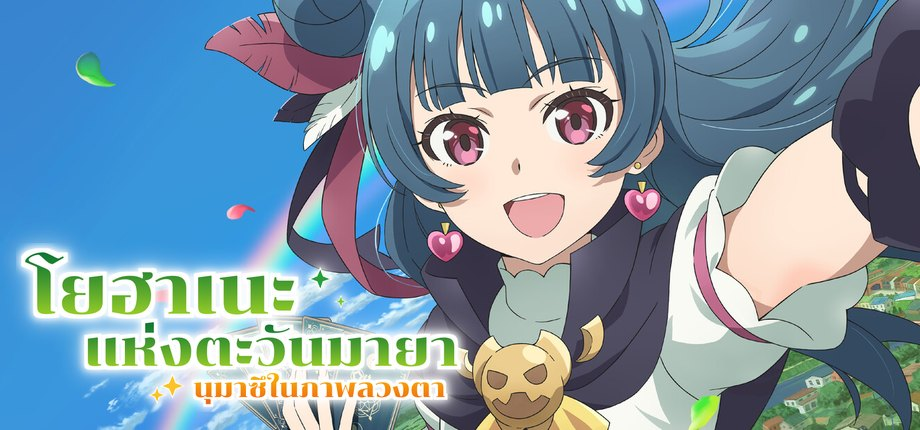
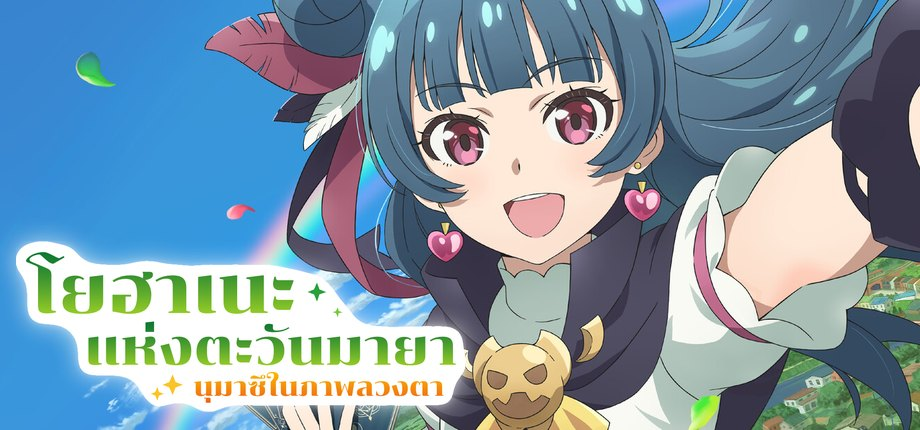
Train45 v1.0.4, Yohane v1.0.5-beta, Nijigasaki v1.0.2-beta; no status badges; 'ทดสอบกับเกมบน Steam'; internet only on first launch; new Yohane cover

Changed region(s): [[0.0, 0.5442, 0.5174, 0.9674]]

diff --git a/index.html b/index.html
@@ -26,7 +26,7 @@
 <meta property="og:image:height" content="630">
 <meta property="og:image:alt" content="TripleT Translate แปลเกมเป็นภาษาไทย">
 <meta name="twitter:card" content="summary_large_image">
-<link rel="stylesheet" href="assets/style.css?v=6dbc5da4">
+<link rel="stylesheet" href="assets/style.css?v=de7aab95">
 </head>
 <body>
 <header class="top">
@@ -77,7 +77,6 @@
             <div class="body">
               <h3>Love Live! Nijigasaki High School Idol Club<br>TOKIMEKI Roadmap to the Future</h3>
               <div class="badges">
-                <span class="badge warn">เวอร์ชันทดลอง</span>
                 <span class="badge new" data-new="nijichizu" hidden>ใหม่</span>
                 <span class="badge" data-ver="nijichizu"></span>
                 <span class="badge ai">🤖 แปลด้วย AI</span>
@@ -103,7 +102,7 @@
                 ถ้าขึ้นถามว่าจะแทนที่ไฟล์ไหม ให้กด <b>แทนที่</b></li>
               <li>เช็กให้ชัวร์: ในโฟลเดอร์เกมต้องเห็นโฟลเดอร์ <code>BepInEx</code> กับไฟล์ <code>winhttp.dll</code> อยู่ข้าง ๆ <code>nijichizu.exe</code>
                 (ถ้ามันไปอยู่ในโฟลเดอร์ย่อยอีกชั้น ให้ย้ายออกมาไว้ข้าง ๆ <code>nijichizu.exe</code>)</li>
-              <li>เข้าเกมผ่าน Steam ตามปกติ <b>ครั้งแรกจะเปิดช้าประมาณ 1–3 นาที</b> รอได้เลย ไม่ได้ค้าง (ต้องต่อเน็ตด้วย)</li>
+              <li>เข้าเกมผ่าน Steam ตามปกติ <b>ครั้งแรกจะเปิดช้าประมาณ 1–3 นาที</b> รอได้เลย ไม่ได้ค้าง (ต้องต่อเน็ตแค่ครั้งแรก ครั้งต่อไปเล่นแบบไม่มีเน็ตได้)</li>
               <li>ในเกม ไปที่การตั้งค่า แล้วตั้งภาษาเป็น <b>English</b> ข้อความและเมนูจะกลายเป็นภาษาไทย 🎉</li>
             </ol>
             <p class="note uninstall">อยากเอาม็อดออก: ดับเบิลคลิกไฟล์ <code>NijichizuThai_uninstall.bat</code> ในโฟลเดอร์เกม</p>
@@ -113,13 +112,12 @@
         <article class="mod" id="yohanuma">
           <div class="top">
             <div class="side">
-              <div class="shot"><img src="assets/cover-yohanuma.jpg?v=2020bb5c" alt="ภาพปกเกม Yohane the Parhelion - NUMAZU in the MIRAGE -" width="460" height="215" loading="lazy"></div>
+              <div class="shot"><img src="assets/cover-yohanuma.jpg?v=831d6980" alt="ภาพปกเกม Yohane the Parhelion - NUMAZU in the MIRAGE -" width="460" height="215" loading="lazy"></div>
               <a class="store" data-store="yohanuma" href="#" target="_blank" rel="noopener">🎮 ดูเกมนี้บน Steam ↗</a>
             </div>
             <div class="body">
               <h3>Yohane the Parhelion<br>- NUMAZU in the MIRAGE -</h3>
               <div class="badges">
-                <span class="badge warn">เวอร์ชันทดลอง</span>
                 <span class="badge new" data-new="yohanuma" hidden>ใหม่</span>
                 <span class="badge" data-ver="yohanuma"></span>
                 <span class="badge ai">🤖 แปลด้วย AI</span>
@@ -145,7 +143,7 @@
                 ถ้าขึ้นถามว่าจะแทนที่ไฟล์ไหม ให้กด <b>แทนที่</b></li>
               <li>เช็กให้ชัวร์: ในโฟลเดอร์เกมต้องเห็นโฟลเดอร์ <code>BepInEx</code> กับไฟล์ <code>winhttp.dll</code> อยู่ข้าง ๆ <code>yohanuma.exe</code>
                 (ถ้ามันไปอยู่ในโฟลเดอร์ย่อยอีกชั้น ให้ย้ายออกมาไว้ข้าง ๆ <code>yohanuma.exe</code>)</li>
-              <li>เข้าเกมผ่าน Steam ตามปกติ <b>ครั้งแรกจะเปิดช้าประมาณ 1–3 นาที</b> รอได้เลย ไม่ได้ค้าง (ต้องต่อเน็ตด้วย)</li>
+              <li>เข้าเกมผ่าน Steam ตามปกติ <b>ครั้งแรกจะเปิดช้าประมาณ 1–3 นาที</b> รอได้เลย ไม่ได้ค้าง (ต้องต่อเน็ตแค่ครั้งแรก ครั้งต่อไปเล่นแบบไม่มีเน็ตได้)</li>
               <li>ในเกม ไปที่การตั้งค่า แล้วตั้งภาษาเป็น <b>English</b> ข้อความจะกลายเป็นภาษาไทย 🎉</li>
             </ol>
             <p class="note uninstall">อยากเอาม็อดออก: ดับเบิลคลิกไฟล์ <code>YohanumaThai_uninstall.bat</code> ในโฟลเดอร์เกม</p>
@@ -181,7 +179,7 @@
           <ul class="fix">
             <li><b>เช็กภาษาในเกม:</b> Train45 ให้เลือก "ภาษาไทย" ที่ Settings → Display → Language ส่วน Yohane กับ Nijigasaki ให้ตั้งเป็น <b>English</b></li>
             <li><b>เช็กที่วางไฟล์:</b> โฟลเดอร์ <code>BepInEx</code> กับไฟล์ <code>winhttp.dll</code> ต้องอยู่ข้าง ๆ ไฟล์ .exe ของเกม ไม่ใช่ในโฟลเดอร์ย่อย (Train45 ให้กด <code>install.bat</code> อีกรอบ)</li>
-            <li><b>รอครั้งแรก:</b> Yohane กับ Nijigasaki เปิดครั้งแรกจะช้า 1–3 นาที และต้องต่อเน็ต</li>
+            <li><b>รอครั้งแรก:</b> Yohane กับ Nijigasaki เปิดครั้งแรกจะช้า 1–3 นาที และต้องต่อเน็ตแค่ครั้งแรก หลังจากนั้นเล่นแบบไม่มีเน็ตได้</li>
             <li><b>แอนตี้ไวรัส:</b> ถ้ามันลบ <code>winhttp.dll</code> ไป ให้อนุญาตไฟล์นั้นแล้วติดตั้งใหม่</li>
           </ul>
           <p>ยังไม่ได้อีก บอกได้ที่<a href="report.html">หน้าแจ้งปัญหา</a> เดี๋ยวช่วยดูให้</p>
@@ -212,7 +210,7 @@
   </div>
 </footer>
 
-<script src="assets/config.js?v=5a96a937"></script>
-<script src="assets/main.js?v=66409899"></script>
+<script src="assets/config.js?v=7c2139b3"></script>
+<script src="assets/main.js?v=c938d776"></script>
 </body>
 </html>

diff --git a/assets/config.js b/assets/config.js
@@ -5,21 +5,21 @@ window.SITE = {
   // gameVer = เวอร์ชันเกมที่ใช้ทดสอบ ใส่แค่ตัวเลข เช่น "1.0.18" (หน้าเว็บเติม v ให้; เว้นว่างถ้าไม่รู้), size/date = ค่าสำรอง (หน้าเว็บอ่านค่าจริงจาก GitHub release)
   mods: {
     yohanuma: {
-      version: "1.0.4-beta", tag: "yohanuma-v1.0.4-beta", file: "Yohanuma-ThaiMod-v1.0.4-beta.zip",
+      version: "1.0.5-beta", tag: "yohanuma-v1.0.5-beta", file: "Yohanuma-ThaiMod-v1.0.5-beta.zip",
       name: "Yohane the Parhelion - NUMAZU in the MIRAGE -",
-      added: "2026-11-10", lines: 6182, gameVer: "1.0.18", size: 34397079, date: "2026-11-13",
+      added: "2026-11-10", lines: 6182, gameVer: "1.0.18", size: 34322723, date: "2026-11-16",
       store: "https://store.steampowered.com/app/2459750/",
     },
     train45: {
-      version: "1.0.3", tag: "train45-v1.0.3", file: "Train45-ThaiMod-v1.0.3.zip",
+      version: "1.0.4", tag: "train45-v1.0.4", file: "Train45-ThaiMod-v1.0.4.zip",
       name: "Train45",
-      added: "2026-11-10", lines: 7462, gameVer: "1.0.6.4", size: 380174, date: "2026-11-13",
+      added: "2026-11-10", lines: 7462, gameVer: "1.0.6.4", size: 561856, date: "2026-11-16",
       store: "https://store.steampowered.com/app/3711590/",
     },
     nijichizu: {
-      version: "1.0.1-beta", tag: "nijichizu-v1.0.1-beta", file: "Nijichizu-ThaiMod-v1.0.1-beta.zip",
+      version: "1.0.2-beta", tag: "nijichizu-v1.0.2-beta", file: "Nijichizu-ThaiMod-v1.0.2-beta.zip",
       name: "Love Live! Nijigasaki High School Idol Club TOKIMEKI Roadmap to the Future",
-      added: "2026-11-12", lines: 14880, gameVer: "1.0.1", size: 46448733, date: "2026-11-12",
+      added: "2026-11-12", lines: 14880, gameVer: "1.0.1", size: 46464814, date: "2026-11-16",
       store: "https://store.steampowered.com/app/3213690/",
     },
   },

diff --git a/adult.html b/adult.html
@@ -25,7 +25,7 @@
 <meta property="og:image:height" content="630">
 <meta property="og:image:alt" content="TripleT Translate แปลเกมเป็นภาษาไทย">
 <meta name="twitter:card" content="summary_large_image">
-<link rel="stylesheet" href="assets/style.css?v=6dbc5da4">
+<link rel="stylesheet" href="assets/style.css?v=de7aab95">
 </head>
 <body>
 <header class="top">
@@ -61,7 +61,6 @@
               <h3>Train45</h3>
               <div class="badges">
                 <span class="badge adult">18+</span>
-                <span class="badge ok">พร้อมเล่น</span>
                 <span class="badge new" data-new="train45" hidden>ใหม่</span>
                 <span class="badge" data-ver="train45"></span>
                 <span class="badge ai">🤖 แปลด้วย AI</span>
@@ -109,7 +108,7 @@
   </div>
 </footer>
 
-<script src="assets/config.js?v=5a96a937"></script>
-<script src="assets/main.js?v=66409899"></script>
+<script src="assets/config.js?v=7c2139b3"></script>
+<script src="assets/main.js?v=c938d776"></script>
 </body>
 </html>

diff --git a/404.html b/404.html
@@ -14,7 +14,7 @@
 <meta name="theme-color" content="#0b1020">
 <meta name="theme-color" content="#f5f7fc" media="(prefers-color-scheme: light)">
 <script>try{var t=localStorage.getItem("theme");if(t)document.documentElement.setAttribute("data-theme",t)}catch(e){}</script>
-<link rel="stylesheet" href="/thai-mods/assets/style.css?v=6dbc5da4">
+<link rel="stylesheet" href="/thai-mods/assets/style.css?v=de7aab95">
 </head>
 <body>
 <header class="top">
@@ -52,7 +52,7 @@
   </div>
 </footer>
 
-<script src="/thai-mods/assets/config.js?v=5a96a937"></script>
-<script src="/thai-mods/assets/main.js?v=66409899"></script>
+<script src="/thai-mods/assets/config.js?v=7c2139b3"></script>
+<script src="/thai-mods/assets/main.js?v=c938d776"></script>
 </body>
 </html>

diff --git a/report.html b/report.html
@@ -25,7 +25,7 @@
 <meta property="og:image:height" content="630">
 <meta property="og:image:alt" content="TripleT Translate แปลเกมเป็นภาษาไทย">
 <meta name="twitter:card" content="summary_large_image">
-<link rel="stylesheet" href="assets/style.css?v=6dbc5da4">
+<link rel="stylesheet" href="assets/style.css?v=de7aab95">
 </head>
 <body>
 <header class="top">
@@ -145,8 +145,8 @@
   </div>
 </footer>
 
-<script src="assets/config.js?v=5a96a937"></script>
-<script src="assets/main.js?v=66409899"></script>
+<script src="assets/config.js?v=7c2139b3"></script>
+<script src="assets/main.js?v=c938d776"></script>
 <script src="assets/report.js?v=596c9da0"></script>
 </body>
 </html>

diff --git a/donate.html b/donate.html
@@ -25,7 +25,7 @@
 <meta property="og:image:height" content="630">
 <meta property="og:image:alt" content="TripleT Translate แปลเกมเป็นภาษาไทย">
 <meta name="twitter:card" content="summary_large_image">
-<link rel="stylesheet" href="assets/style.css?v=6dbc5da4">
+<link rel="stylesheet" href="assets/style.css?v=de7aab95">
 </head>
 <body>
 <header class="top">
@@ -68,7 +68,7 @@
   </div>
 </footer>
 
-<script src="assets/config.js?v=5a96a937"></script>
-<script src="assets/main.js?v=66409899"></script>
+<script src="assets/config.js?v=7c2139b3"></script>
+<script src="assets/main.js?v=c938d776"></script>
 </body>
 </html>

diff --git a/assets/main.js b/assets/main.js
@@ -28,7 +28,7 @@
     document.querySelectorAll(`[data-meta="${id}"]`).forEach(p => {
       p.textContent = "";
       const parts = [`ไฟล์ zip ${fmtSize(size)}`, `อัปเดต ${fmtDate(date)}`];
-      if (m.gameVer) parts.push(`ทดสอบกับเกม v${m.gameVer}`);
+      if (m.gameVer) parts.push(`ทดสอบกับเกมบน Steam v${m.gameVer}`);
       parts.forEach((t, i) => {
         if (i) { const s = document.createElement("span"); s.className = "sep"; s.textContent = "·"; p.append(s); }
         p.append(t);

diff --git a/README.md b/README.md
@@ -7,9 +7,9 @@
 
 | เกม | สถานะ | ดาวน์โหลด |
 |---|---|---|
-| Train45 (18+) | พร้อมเล่น | [Releases](https://github.com/OIL333/thai-mods/releases/tag/train45-v1.0.3) |
-| Yohane the Parhelion - NUMAZU in the MIRAGE - | เวอร์ชันทดลอง (beta) | [Releases](https://github.com/OIL333/thai-mods/releases/tag/yohanuma-v1.0.4-beta) |
-| Love Live! Nijigasaki High School Idol Club TOKIMEKI Roadmap to the Future | เวอร์ชันทดลอง (beta) | [Releases](https://github.com/OIL333/thai-mods/releases/tag/nijichizu-v1.0.1-beta) |
+| Train45 (18+) | พร้อมเล่น | [Releases](https://github.com/OIL333/thai-mods/releases/tag/train45-v1.0.4) |
+| Yohane the Parhelion - NUMAZU in the MIRAGE - | เวอร์ชันทดลอง (beta) | [Releases](https://github.com/OIL333/thai-mods/releases/tag/yohanuma-v1.0.5-beta) |
+| Love Live! Nijigasaki High School Idol Club TOKIMEKI Roadmap to the Future | เวอร์ชันทดลอง (beta) | [Releases](https://github.com/OIL333/thai-mods/releases/tag/nijichizu-v1.0.2-beta) |
 
 วิธีติดตั้งอยู่ในหน้าเว็บและในไฟล์ README ที่อยู่ใน zip ของแต่ละเกม
 
